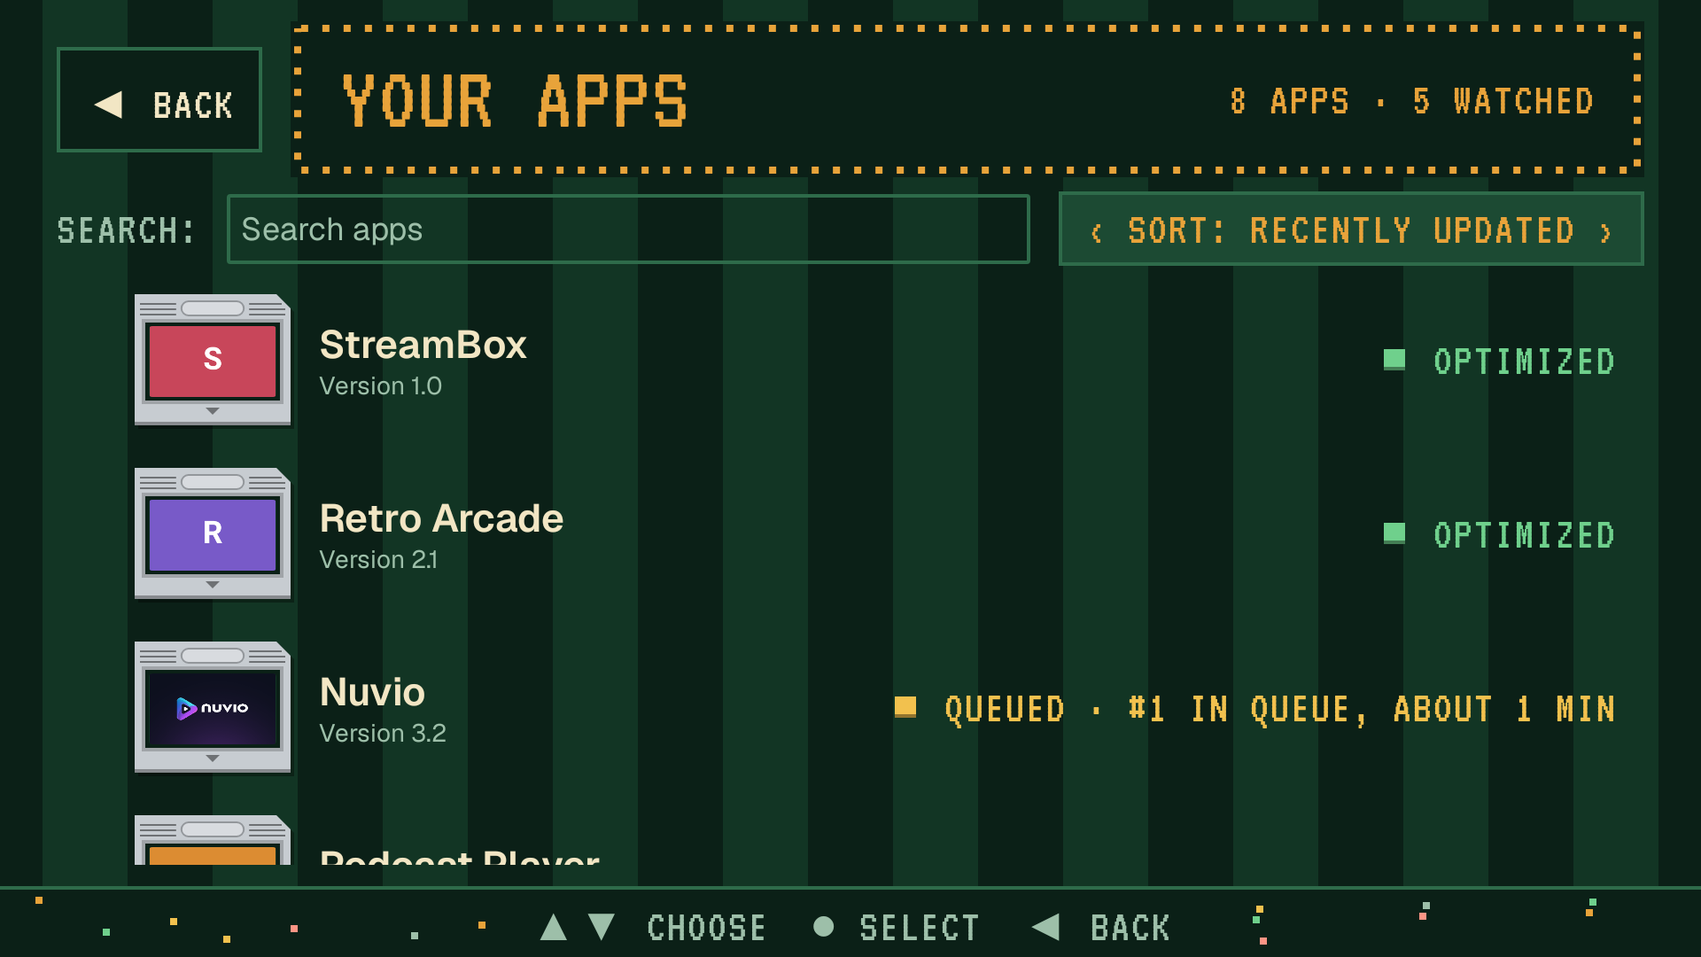
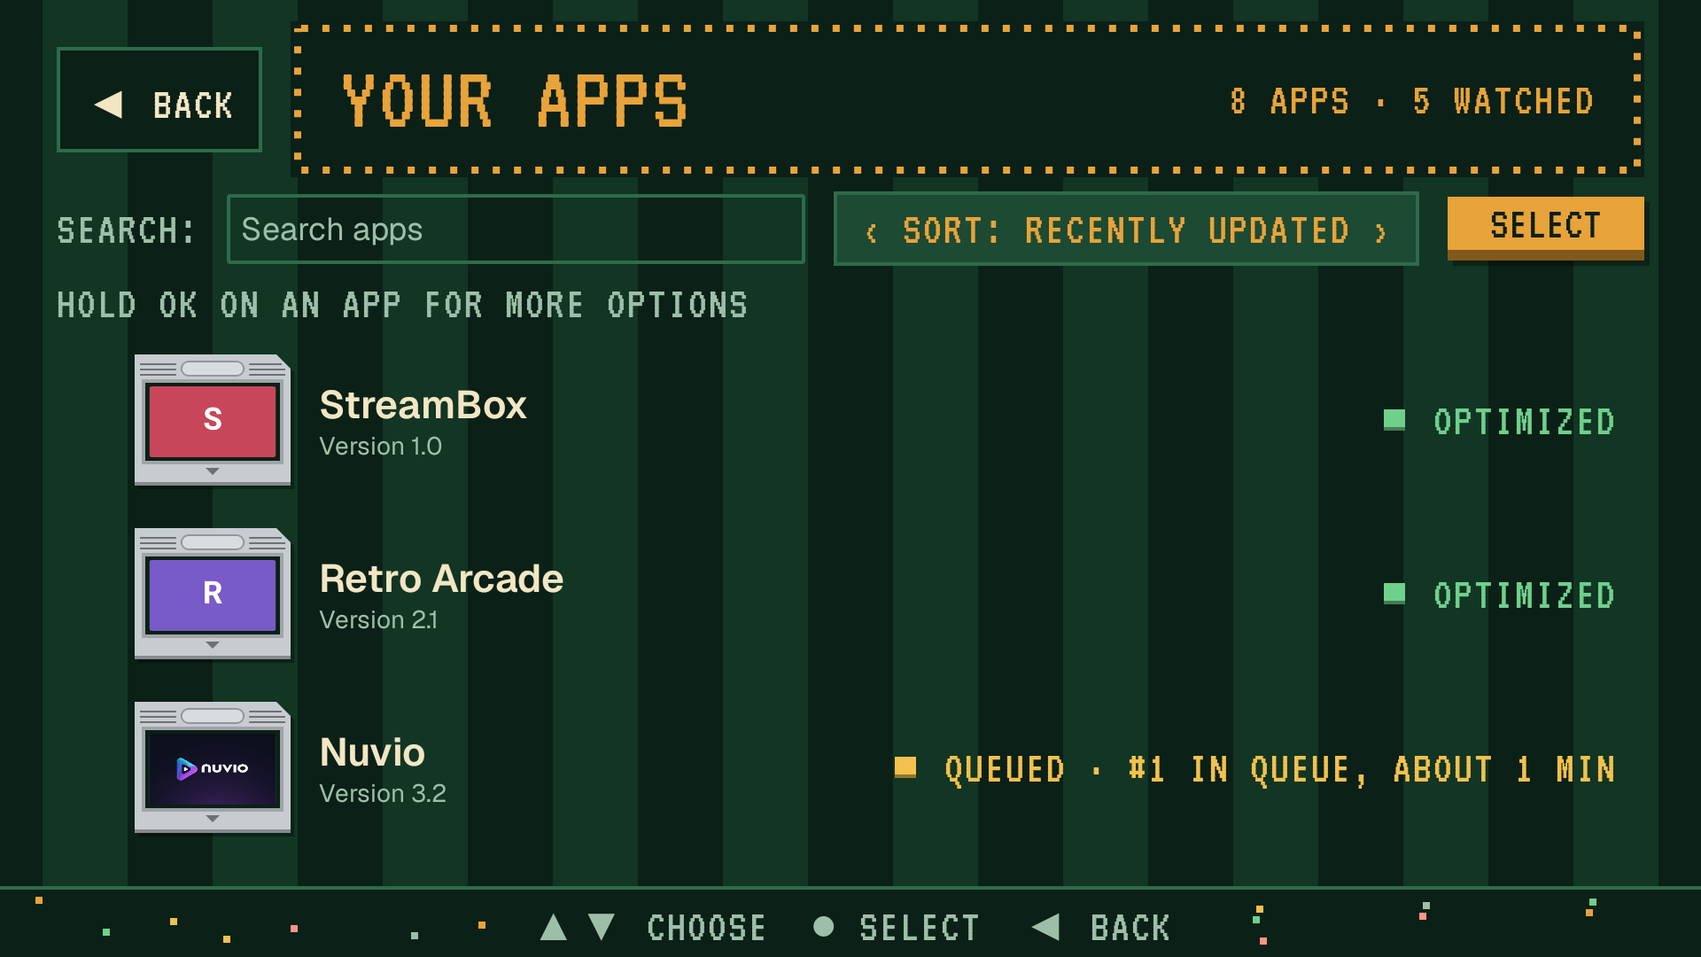
Batch select in Apps (B-04 B-24 B-25 B-26 B-27 B-29) (#11)
* Batch select in Apps (B-04 B-24 B-25 B-26 B-27 B-29)

* Regenerate README shots for Apps, Home and setup picker

* Apps: test scheduler wiring for Optimize selected, survive a failed load, warn tone for queued detail

---------

diff --git a/app/src/main/kotlin/dev/speedcompiler/tv/ui/apps/AppsScreen.kt b/app/src/main/kotlin/dev/speedcompiler/tv/ui/apps/AppsScreen.kt
@@ -61,6 +61,8 @@ import androidx.compose.ui.input.pointer.pointerInput
 import androidx.compose.ui.semantics.Role
 import androidx.compose.ui.semantics.onClick
 import androidx.compose.ui.semantics.role
+import androidx.compose.ui.semantics.toggleableState
+import androidx.compose.ui.state.ToggleableState
 import dev.speedcompiler.tv.theme.Lamp
 import dev.speedcompiler.tv.theme.Marquee
 import dev.speedcompiler.tv.theme.PixelText
@@ -136,7 +138,7 @@ fun AppBanner(app: AppInfo, modifier: Modifier) {
 
 @Composable
 fun AppsScreen(go: (String) -> Unit, onBack: () -> Unit, deps: AppsDeps = rememberAppsDeps()) {
-    val apps by produceState(emptyList<AppInfo>(), deps) { value = deps.loadApps() }
+    val loaded by produceState<List<AppInfo>?>(null, deps) { value = runCatching { deps.loadApps() }.getOrDefault(emptyList()) }
     val queue by remember(deps) { deps.scheduler.queue }.collectAsState(emptyList())
     val watched by remember(deps) { deps.watched }.collectAsState(emptyList())
     val history by remember(deps) { deps.scheduler.history }.collectAsState(emptyList())
@@ -144,12 +146,15 @@ fun AppsScreen(go: (String) -> Unit, onBack: () -> Unit, deps: AppsDeps = rememb
     val scope = rememberCoroutineScope()
     val optimizeNow = rememberOptimizeNow(deps, go)
     AppsContent(
-        apps, queue.associateBy { it.item.packageName }, watched.associateBy { it.packageName }, optimizedAtMap(watched, history), now, deps.zone,
+        loaded.orEmpty(), queue.associateBy { it.item.packageName }, watched.associateBy { it.packageName }, optimizedAtMap(watched, history), now, deps.zone,
         onOpen = { go(Routes.appDetail(it)) },
         onOptimize = optimizeNow,
         onQueue = { pkg -> scope.launch { deps.scheduler.enqueue(pkg, QueueSource.MANUAL) } },
         onToggleWatch = { pkg, isWatched -> scope.launch { if (isWatched) deps.scheduler.unwatch(pkg) else deps.scheduler.watch(pkg) } },
+        onWatchSelected = { pkgs -> scope.launch { pkgs.filter { p -> watched.none { it.packageName == p } }.forEach { deps.scheduler.watch(it) } } },
+        onQueueSelected = { pkgs -> scope.launch { pkgs.forEach { deps.scheduler.enqueue(it, QueueSource.MANUAL) } } },
         onBack = onBack,
+        loading = loaded == null,
     )
 }
 
@@ -165,8 +170,15 @@ fun AppsContent(
     onOptimize: (String) -> Unit,
     onQueue: (String) -> Unit,
     onToggleWatch: (pkg: String, isWatched: Boolean) -> Unit,
+    onWatchSelected: (List<String>) -> Unit = {},
+    onQueueSelected: (List<String>) -> Unit = {},
     onBack: () -> Unit = {},
+    loading: Boolean = false,
+    startSelecting: Boolean = false,
+    startSelected: Set<String> = emptySet(),
 ) {
+    var selecting by remember { mutableStateOf(startSelecting) }
+    var selected by remember { mutableStateOf(startSelected) }
     var query by remember { mutableStateOf("") }
     var sort by remember { mutableStateOf(Sort.Recent) }
     var menu by remember { mutableStateOf<AppInfo?>(null) }
@@ -193,8 +205,11 @@ fun AppsContent(
     val keyboard = LocalSoftwareKeyboardController.current
     val mem = rememberFocusMemory("sort")
     LaunchedEffect(editing) { if (editing) { runCatching { field.requestFocus() }; keyboard?.show() } }
-    val shown = apps.filter { it.label.contains(query.trim(), ignoreCase = true) }
-        .let { l -> if (sort == Sort.Recent) l.sortedByDescending { it.updatedAt } else l.sortedBy { it.label.lowercase() } }
+    val shown = remember(apps, query, sort) {
+        apps.filter { it.label.contains(query.trim(), ignoreCase = true) }
+            .let { l -> if (sort == Sort.Recent) l.sortedByDescending { it.updatedAt } else l.sortedBy { it.label.lowercase() } }
+    }
+    fun finish(act: (List<String>) -> Unit) { act(selected.toList()); selected = emptySet(); selecting = false }
     val c = LocalSpeedColors.current
 
     RoomBackdrop {
@@ -247,13 +262,28 @@ fun AppsContent(
                     .background(if (sortFocused) MaterialTheme.colorScheme.primaryContainer else Color.Transparent)
                     .border(2.dp, c.hairline).padding(horizontal = Space.x2, vertical = Space.x1),
             ) { Selector("Sort: ${sort.label}", sortFocused) }
+            Button({ selecting = !selecting; selected = emptySet() }) { Text((if (selecting) "Done" else "Select").uppercase()) }
         }
+        if (selecting) Row(horizontalArrangement = Arrangement.spacedBy(Space.x1), verticalAlignment = Alignment.CenterVertically) {
+            val none = selected.isEmpty()
+            Button({ finish(onWatchSelected) }, enabled = !none) { Text("Watch selected".uppercase()) }
+            Button({ finish(onQueueSelected) }, enabled = !none) { Text("Optimize selected".uppercase()) }
+            Button({ selected = selected + apps.map { it.packageName }.filter { it in watched } }) { Text("Select all watched".uppercase()) }
+            PixelText("${selected.size} selected", color = c.accent)
+        } else PixelText("Hold OK on an app for more options", color = MaterialTheme.colorScheme.onSurfaceVariant)
+        if (shown.isEmpty()) Text(
+            when { loading -> "Loading apps…"; apps.isEmpty() -> "No apps found."; else -> "No apps match your search." },
+            style = MaterialTheme.typography.titleMedium, color = MaterialTheme.colorScheme.onSurfaceVariant,
+        )
         LazyColumn(Modifier.weight(1f), verticalArrangement = Arrangement.spacedBy(Space.x1)) {
             items(shown, key = { it.packageName }) { app ->
-                val pill = pillFor(queue[app.packageName], optimizedAt[app.packageName], now, zone)
+                val pill = pillFor(queue[app.packageName], watched[app.packageName]?.lastResult, optimizedAt[app.packageName], now, zone)
                 SelectRow(
                     app.label,
-                    Modifier.remembersFocus(mem, app.packageName).semantics { onLongClick("Open menu") { menu = app; true } }
+                    Modifier.remembersFocus(mem, app.packageName).semantics {
+                        if (selecting) { role = Role.Checkbox; toggleableState = ToggleableState(app.packageName in selected) }
+                        onLongClick("Open menu") { menu = app; true }
+                    }
                         .onPreviewKeyEvent {
                             val enter = it.key == Key.Enter || it.key == Key.DirectionCenter || it.key == Key.NumPadEnter
                             // Holding OK: the first repeat is the long press.
@@ -265,9 +295,10 @@ fun AppsContent(
                             long || up
                         },
                     subtitle = app.versionName.takeIf { it.isNotEmpty() }?.let { "Version $it" },
-                    onClick = { onOpen(app.packageName) },
+                    onClick = { if (selecting) selected = if (app.packageName in selected) selected - app.packageName else selected + app.packageName else onOpen(app.packageName) },
                     leading = { Cartridge { AppBanner(app, Modifier.size(width = 72.dp, height = 40.dp)) } },
                     trailing = {
+                        if (selecting) PixelText(if (app.packageName in selected) "[x]" else "[ ]", color = c.accent)
                         if (pill != null) Row(horizontalArrangement = Arrangement.spacedBy(Space.x2), verticalAlignment = Alignment.CenterVertically) {
                             Lamp(toneColor(pill.second), waiting = pill.second == Tone.Warn)
                             PixelText(pill.first, color = toneColor(pill.second))

diff --git a/app/src/test/kotlin/dev/speedcompiler/tv/ui/apps/AppsScreensTest.kt b/app/src/test/kotlin/dev/speedcompiler/tv/ui/apps/AppsScreensTest.kt
@@ -20,6 +20,7 @@ import androidx.compose.ui.test.assertIsDisplayed
 import androidx.compose.ui.test.onAllNodesWithText
 import androidx.compose.ui.test.getBoundsInRoot
 import androidx.compose.ui.test.isFocusable
+import androidx.compose.ui.test.onNodeWithContentDescription
 import androidx.compose.ui.test.onNodeWithText
 import androidx.compose.ui.test.onRoot
 import androidx.compose.ui.test.performSemanticsAction
@@ -165,7 +166,7 @@ class AppsScreensTest : ComposeTestBase() {
 
     @Test
     fun watchedAppOffersStopWatching() {
-        watched.value = listOf(WatchedApp("a.alpha", "f", lastOptimizedAt = 1))
+        watched.value = listOf(WatchedApp("a.alpha", "f", lastResult = "Optimized (checked)", lastOptimizedAt = 1))
         listScreen()
         rule.onNodeWithText("Optimized", ignoreCase = true).assertIsDisplayed()
         longPress("Alpha"); click("Stop watching")
@@ -181,7 +182,7 @@ class AppsScreensTest : ComposeTestBase() {
 
     @Test
     fun detailShowsStateAndWatchToggle() {
-        watched.value = listOf(WatchedApp("a.alpha", "f", lastOptimizedAt = 1_800_000_000_000 - 2 * 3_600_000))
+        watched.value = listOf(WatchedApp("a.alpha", "f", lastResult = "Optimized (checked)", lastOptimizedAt = 1_800_000_000_000 - 2 * 3_600_000))
         detailScreen()
         rule.onNodeWithText("a.alpha").assertIsDisplayed()
         rule.onNodeWithText("Optimized for speed · checked 2 h ago").assertIsDisplayed()
@@ -282,6 +283,91 @@ class AppsScreensTest : ComposeTestBase() {
         )
         assertEquals(mapOf("a.alpha" to 50L), optimizedAtMap(emptyList(), listOf(done)))
         assertEquals(mapOf("a.alpha" to 80L), optimizedAtMap(listOf(WatchedApp("a.alpha", "f", lastOptimizedAt = 80)), listOf(done)))
+    }
+
+    private fun content(
+        list: List<AppInfo> = apps, loading: Boolean = false, selecting: Boolean = false, picked: Set<String> = emptySet(),
+        watchedNow: Map<String, WatchedApp> = emptyMap(), onWatch: (List<String>) -> Unit = {}, onQueue: (List<String>) -> Unit = {},
+    ) = show {
+        AppsContent(
+            list, emptyMap(), watchedNow, emptyMap(), 1_800_000_000_000, java.time.ZoneOffset.UTC, {}, {}, {}, { _, _ -> },
+            onWatch, onQueue, loading = loading, startSelecting = selecting, startSelected = picked,
+        )
+    }
+
+    @Test
+    fun selectingThreeAppsQueuesAllThree() {
+        val queued = mutableListOf<String>()
+        content(onQueue = { queued += it })
+        click("Select")
+        listOf("Alpha", "Beta", "Gamma").forEach { click(it) }
+        rule.onNodeWithText("3 selected", ignoreCase = true).assertIsDisplayed()
+        click("Optimize selected")
+        assertEquals(listOf("a.alpha", "b.beta", "c.gamma").sorted(), queued.sorted())
+        rule.onNodeWithText("Optimize selected", ignoreCase = true).assertDoesNotExist() // back to browsing
+    }
+
+    @Test
+    fun optimizeSelectedEnqueuesEachAppOnTheScheduler() {
+        listScreen()
+        click("Select")
+        listOf("Alpha", "Beta", "Gamma").forEach { click(it) }
+        click("Optimize selected")
+        rule.waitForIdle()
+        assertEquals(listOf("enqueue:a.alpha", "enqueue:b.beta", "enqueue:c.gamma"), scheduler.calls.sorted())
+    }
+
+    @Test
+    fun selectAllWatchedPicksOnlyWatchedApps() {
+        val watching = mutableListOf<String>()
+        content(selecting = true, watchedNow = mapOf("b.beta" to WatchedApp("b.beta", "f")), onWatch = { watching += it })
+        click("Select all watched")
+        click("Watch selected")
+        assertEquals(listOf("b.beta"), watching)
+    }
+
+    @Test
+    fun statusWordsComeFromTheResultEnum() {
+        val zone = java.time.ZoneOffset.UTC
+        assertEquals("Optimized" to dev.speedcompiler.tv.theme.Tone.Ok, pillFor(null, "Optimized (checked)", 1, 0, zone))
+        assertEquals("Compiled" to dev.speedcompiler.tv.theme.Tone.Warn, pillFor(null, "Optimized", 1, 0, zone))
+        assertEquals("Compiled", pillFor(null, null, 1, 0, zone)?.first) // finished job, no stored result
+        assertEquals("Didn't finish", pillFor(null, "Failed: x", null, 0, zone)?.first)
+        assertEquals(null, pillFor(null, null, null, 0, zone))
+        val run = dev.speedcompiler.tv.watch.QueueEntry(
+            dev.speedcompiler.tv.watch.QueueItem(1, "a", dev.speedcompiler.tv.watch.QueueSource.MANUAL, dev.speedcompiler.tv.watch.QueueState.RUNNING, enqueuedAt = 1),
+            0, dev.speedcompiler.tv.watch.Eta.None,
+        )
+        assertEquals("Running", pillFor(run, "Optimized (checked)", 1, 0, zone)?.first)
+    }
+
+    @Test
+    fun detailCardTakesNoFocus() {
+        detailScreen()
+        rule.onNodeWithContentDescription("Alpha, New").assertExists().assert(SemanticsMatcher.keyNotDefined(SemanticsProperties.Focused))
+        rule.onAllNodes(isFocusable()).assertCountEquals(3) // Back, Optimize now, Watch; not the card
+        rule.onAllNodesWithText("Optimize now", ignoreCase = true).assertCountEquals(1)
+    }
+
+    @Test
+    fun loadingShot() {
+        content(emptyList(), loading = true)
+        rule.onNodeWithText("Loading apps", substring = true).assertIsDisplayed()
+        rule.onRoot().captureRoboImage("build/outputs/roborazzi/apps_loading.png")
+    }
+
+    @Test
+    fun emptyShot() {
+        content(emptyList())
+        rule.onNodeWithText("No apps found.").assertIsDisplayed()
+        rule.onRoot().captureRoboImage("build/outputs/roborazzi/apps_empty.png")
+    }
+
+    @Test
+    fun selectModeShot() {
+        content(selecting = true, picked = setOf("a.alpha", "c.gamma"))
+        rule.onNodeWithText("2 selected", ignoreCase = true).assertIsDisplayed()
+        rule.onRoot().captureRoboImage("build/outputs/roborazzi/apps_select.png")
     }
 
     @Test

diff --git a/app/src/main/kotlin/dev/speedcompiler/tv/ui/apps/AppDetailScreen.kt b/app/src/main/kotlin/dev/speedcompiler/tv/ui/apps/AppDetailScreen.kt
@@ -14,8 +14,12 @@ import androidx.compose.runtime.remember
 import androidx.compose.runtime.rememberCoroutineScope
 import androidx.compose.ui.Modifier
 import androidx.compose.ui.draw.scale
+import androidx.compose.ui.focus.focusProperties
+import dev.speedcompiler.tv.ui.home.JobResult
 import androidx.compose.ui.semantics.Role
 import androidx.compose.ui.semantics.role
+import androidx.compose.ui.semantics.clearAndSetSemantics
+import androidx.compose.ui.semantics.contentDescription
 import androidx.compose.ui.semantics.semantics
 import androidx.compose.ui.semantics.toggleableState
 import androidx.compose.ui.state.ToggleableState
@@ -49,7 +53,7 @@ import kotlinx.coroutines.launch
 
 @Composable
 fun AppDetailScreen(packageName: String, go: (String) -> Unit, onBack: () -> Unit, deps: AppsDeps = rememberAppsDeps()) {
-    val apps by produceState(emptyList<AppInfo>(), deps) { value = deps.loadApps() }
+    val loaded by produceState<AppInfo?>(null, deps, packageName) { value = deps.loadApp(packageName) }
     val queue by remember(deps) { deps.scheduler.queue }.collectAsState(emptyList())
     val watched by remember(deps) { deps.watched }.collectAsState(emptyList())
     val history by remember(deps) { deps.scheduler.history }.collectAsState(emptyList())
@@ -58,7 +62,7 @@ fun AppDetailScreen(packageName: String, go: (String) -> Unit, onBack: () -> Uni
     val optimizeNow = rememberOptimizeNow(deps, go)
     val mine = watched.firstOrNull { it.packageName == packageName }
     AppDetailContent(
-        apps.firstOrNull { it.packageName == packageName } ?: AppInfo(packageName, packageName),
+        loaded ?: AppInfo(packageName, packageName),
         mine, optimizedAtMap(watched, history)[packageName], queue.firstOrNull { it.item.packageName == packageName }, now, deps.zone,
         onOptimize = { optimizeNow(packageName) },
         onToggleWatch = { scope.launch { if (mine != null) deps.scheduler.unwatch(packageName) else deps.scheduler.watch(packageName) } },
@@ -83,11 +87,13 @@ fun AppDetailContent(
     runs: List<QueueItem> = emptyList(),
 ) {
     val mem = rememberFocusMemory("optimize")
-    val checkedAt = optimizedAt
+    val result = resultFor(entry, watched?.lastResult, optimizedAt)
     val state = when {
-        entry?.state == QueueState.RUNNING -> "Optimizing now"
-        entry != null -> etaText(entry.eta, Instant.ofEpochMilli(now), zone).ifEmpty { "Queued" }
-        checkedAt != null -> "Optimized for speed · checked ${agoText(checkedAt, now)}"
+        result == JobResult.Running -> "Optimizing now"
+        result == JobResult.Queued -> etaText(entry!!.eta, Instant.ofEpochMilli(now), zone).ifEmpty { "Queued" }
+        result == JobResult.Failed -> "Didn't finish"
+        result == JobResult.Verified -> "Optimized for speed · checked ${agoText(optimizedAt ?: now, now)}"
+        result != null -> "${result.label} · ${agoText(optimizedAt ?: now, now)}"
         else -> "Not optimized yet"
     }
     val rows = runs.filter { it.state == QueueState.DONE || it.state == QueueState.FAILED }
@@ -96,13 +102,14 @@ fun AppDetailContent(
             val ok = it.state == QueueState.DONE
             ScoreRow(agoText(it.finishedAt ?: it.enqueuedAt, now), if (it.source == QueueSource.AUTO) "Automatic" else "Manual", if (ok) "Done" else "Failed", if (ok) Tone.Ok else Tone.Error)
         }
-    val tone = when { entry?.state == QueueState.RUNNING -> Tone.Info; entry != null -> Tone.Warn; checkedAt != null -> Tone.Ok; else -> Tone.Neutral }
-    val word = when { entry?.state == QueueState.RUNNING -> "Running"; entry != null -> "Queued"; checkedAt != null -> "Optimized"; else -> "New" }
+    val tone = if (result == JobResult.Queued) Tone.Warn else result?.tone ?: Tone.Neutral // matches the Apps list pill
+    val word = result?.label ?: "New"
     RoomBackdrop {
         Column(Modifier.fillMaxSize().padding(horizontal = 32.dp, vertical = 12.dp), verticalArrangement = Arrangement.spacedBy(Space.x1)) {
             Marquee(app.label, compact = true, onBack = onBack)
             Row(Modifier.weight(1f), horizontalArrangement = Arrangement.spacedBy(Space.x4)) {
-                CabinetCard(app.label, Modifier.width(280.dp), word, tone, onClick = onOptimize, screenHeight = 140.dp) {
+                // Display only: the Optimize button beside it is the one control, so the card takes no focus.
+                CabinetCard(app.label, Modifier.width(280.dp).focusProperties { canFocus = false }.clearAndSetSemantics { contentDescription = "${app.label}, $word" }, word, tone, screenHeight = 140.dp) {
                     // The Apps list cartridge blown up whole: its frame is fixed dp, so a bigger banner alone would widen its shape.
                     Cartridge(Modifier.scale(1.6f)) { AppBanner(app, Modifier.size(width = 72.dp, height = 40.dp)) }
                 }

diff --git a/app/src/main/kotlin/dev/speedcompiler/tv/ui/apps/AppsModel.kt b/app/src/main/kotlin/dev/speedcompiler/tv/ui/apps/AppsModel.kt
@@ -22,7 +22,9 @@ import dev.speedcompiler.tv.watch.QueueState
 import dev.speedcompiler.tv.watch.Scheduler
 import dev.speedcompiler.tv.watch.WatchedApp
 import java.time.Instant
+import dev.speedcompiler.tv.ui.home.JobResult
 import dev.speedcompiler.tv.ui.home.etaText
+import dev.speedcompiler.tv.ui.home.jobResult
 import java.time.ZoneId
 import java.time.format.DateTimeFormatter
 import kotlinx.coroutines.Dispatchers
@@ -47,14 +49,20 @@ class AppsDeps(
     val setAutoOptimize: suspend (String, Boolean) -> Unit,
     val now: () -> Long = System::currentTimeMillis,
     val zone: ZoneId = ZoneId.systemDefault(),
+    /** One package, for the detail screen; falls back to scanning the list. */
+    val loadApp: suspend (String) -> AppInfo? = { p -> loadApps().firstOrNull { it.packageName == p } },
 )
 
-/** Row pill: Running, Queued (with ETA; gate-held jobs read Queued too), Optimized, or none. */
-fun pillFor(entry: QueueEntry?, optimizedAt: Long?, now: Long, zone: ZoneId): Pair<String, Tone>? = when {
-    entry?.state == QueueState.RUNNING -> "Running" to Tone.Info
-    entry != null -> ("Queued" + (etaText(entry.eta, Instant.ofEpochMilli(now), zone).let { if (it.isEmpty()) "" else " · $it" })) to Tone.Warn
-    optimizedAt != null -> "Optimized" to Tone.Ok
-    else -> null
+/** The app's status word: live queue state first, then the stored result; a finished job with no stored result counts as Compiled. */
+fun resultFor(entry: QueueEntry?, lastResult: String?, optimizedAt: Long?): JobResult? =
+    jobResult(lastResult, entry?.state) ?: if (optimizedAt != null) JobResult.Unverified else null
+
+/** Row pill: the [JobResult] word; Queued also carries the ETA (gate-held jobs read Queued too). */
+fun pillFor(entry: QueueEntry?, lastResult: String?, optimizedAt: Long?, now: Long, zone: ZoneId): Pair<String, Tone>? {
+    val r = resultFor(entry, lastResult, optimizedAt) ?: return null
+    if (r != JobResult.Queued) return r.label to r.tone
+    val eta = etaText(entry!!.eta, Instant.ofEpochMilli(now), zone)
+    return (r.label + if (eta.isEmpty()) "" else " · $eta") to Tone.Warn
 }
 
 /** Latest optimize time per package, from the watched row or the newest finished job (covers unwatched apps). */
@@ -95,6 +103,7 @@ fun rememberAppsDeps(): AppsDeps {
         val dao = graph.database.watchedApps()
         AppsDeps(
             loadApps = { loadUserApps(context, graph.packageSystem.installed().map { it.packageName }) },
+            loadApp = { p -> loadUserApps(context, listOf(p)).firstOrNull() },
             scheduler = graph.scheduler,
             watched = dao.all(),
             musicActive = { context.getSystemService(AudioManager::class.java).isMusicActive },

diff --git a/app/src/test/kotlin/dev/speedcompiler/tv/ui/home/HomeActivityTest.kt b/app/src/test/kotlin/dev/speedcompiler/tv/ui/home/HomeActivityTest.kt
@@ -88,14 +88,15 @@ class HomeActivityTest : ComposeTestBase() {
         val went = mutableListOf<String>()
         home(ConnectionState.Connected) { went += it }
         val screen = rule.onRoot().getBoundsInRoot()
-        listOf("Apps", "Activity", "Settings", "Setup").forEach {
+        listOf("Apps", "Activity", "Settings").forEach {
             val b = rule.onNodeWithText(it, ignoreCase = true)
             b.assertIsDisplayed()
             val r = b.getBoundsInRoot()
             assertTrue("$it clipped: $r", r.left >= 0.dp && r.top >= 0.dp && r.right <= screen.right && r.bottom <= screen.bottom)
             b.invokeClick()
         }
-        assertEquals(listOf(Routes.Apps, Routes.Activity, Routes.Settings, Routes.Setup), went)
+        rule.onNodeWithText("Setup", ignoreCase = true).assertDoesNotExist()
+        assertEquals(listOf(Routes.Apps, Routes.Activity, Routes.Settings), went)
     }
 
     @Test

diff --git a/app/src/main/kotlin/dev/speedcompiler/tv/ui/setup/SetupScreen.kt b/app/src/main/kotlin/dev/speedcompiler/tv/ui/setup/SetupScreen.kt
@@ -341,7 +341,7 @@ private fun AppPicker(apps: List<SetupApp>, picked: MutableList<String>, onConti
                         .semantics { role = Role.Checkbox; toggleableState = ToggleableState(on) },
                     subtitle = app.packageName,
                     onClick = { if (on) picked.remove(app.packageName) else picked.add(app.packageName) },
-                ) { if (on) StatusPill("Selected", Tone.Ok) }
+                ) { if (on) StatusPill("Selected", Tone.Ok) else StatusPill("Not selected", Tone.Neutral) }
             }
         }
         Button(onClick = onContinue, enabled = picked.isNotEmpty()) { Text("Continue (${picked.size} selected)".uppercase()) }

diff --git a/app/src/main/kotlin/dev/speedcompiler/tv/ui/home/HomeScreen.kt b/app/src/main/kotlin/dev/speedcompiler/tv/ui/home/HomeScreen.kt
@@ -151,7 +151,7 @@ fun HomeContent(s: HomeState, go: (String) -> Unit, now: Instant = Instant.now()
                     }
                     Row(horizontalArrangement = Arrangement.spacedBy(Space.x2)) {
                         HomeButton("Settings", Cabinet.PLUM, mem, "settings") { go(Routes.Settings) }
-                        HomeButton("Setup", Cabinet.LOGO, mem, "setup") { go(Routes.Setup) }
+                        Spacer(Modifier.weight(1f))
                     }
                 }
             }
